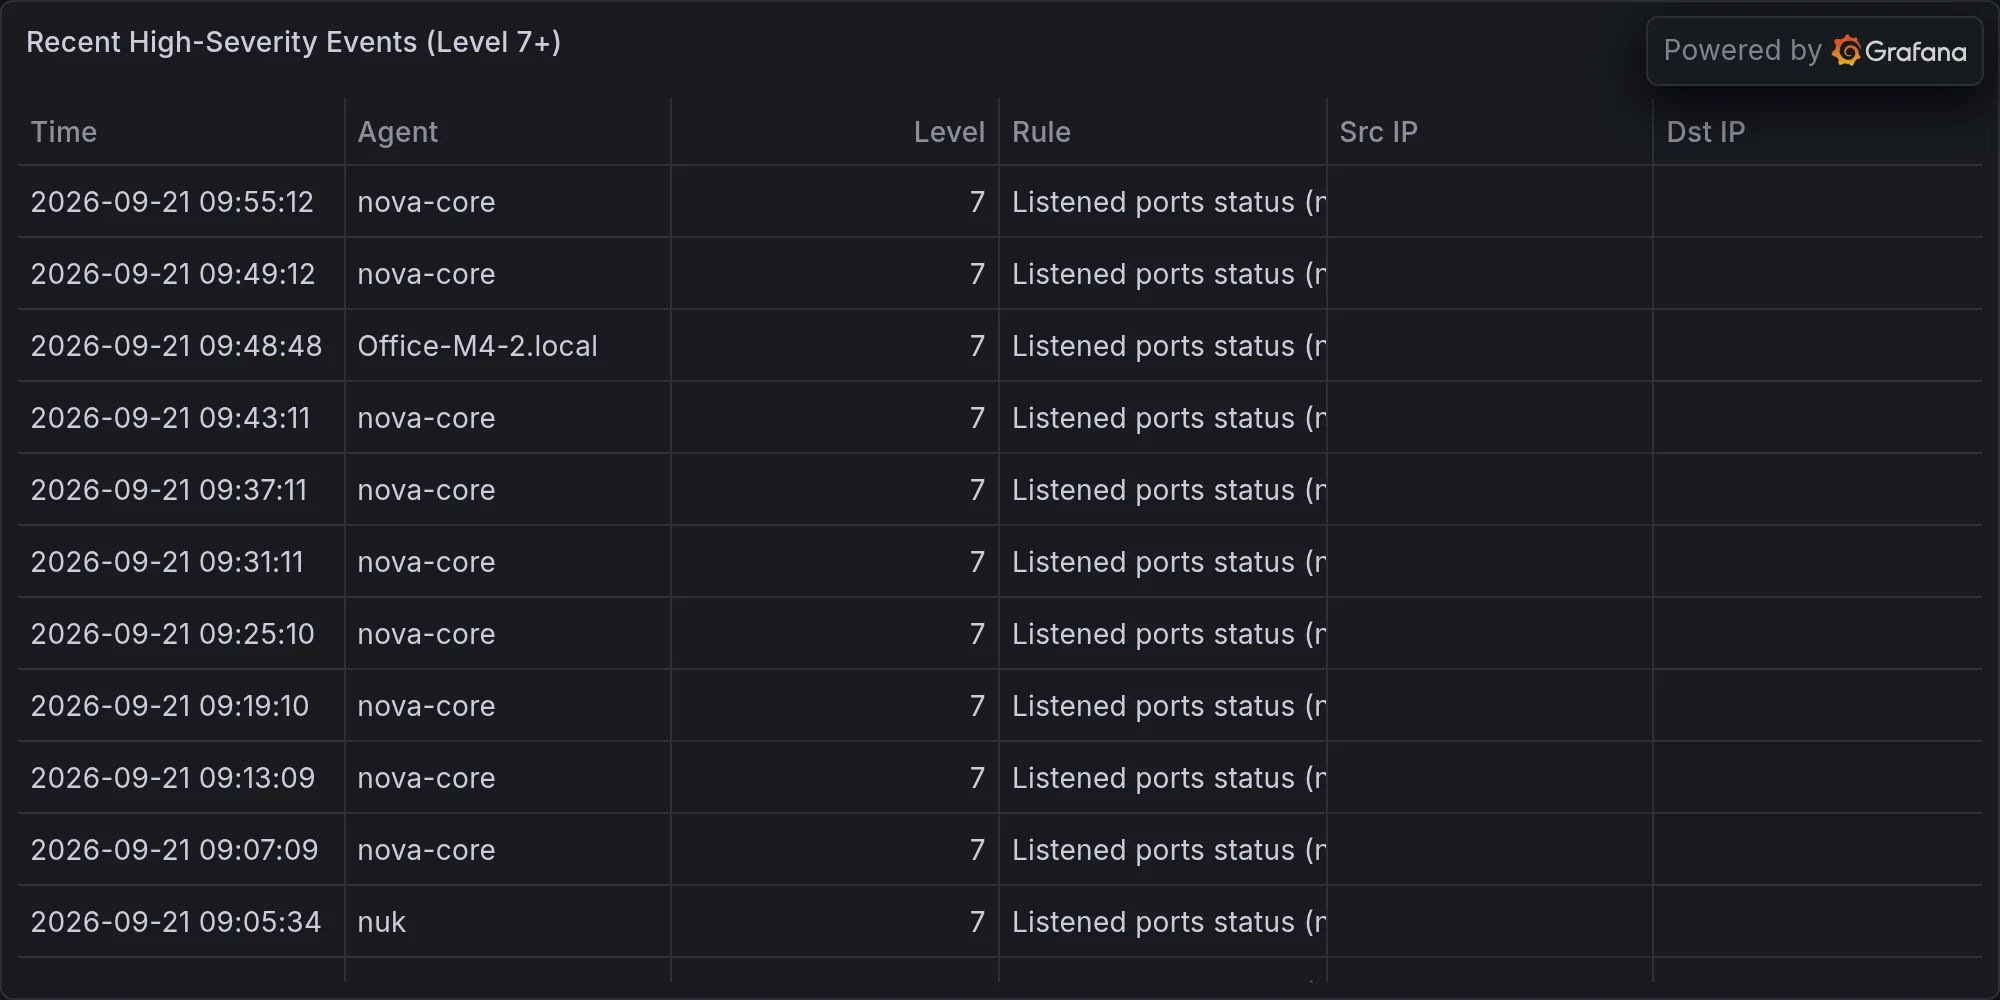
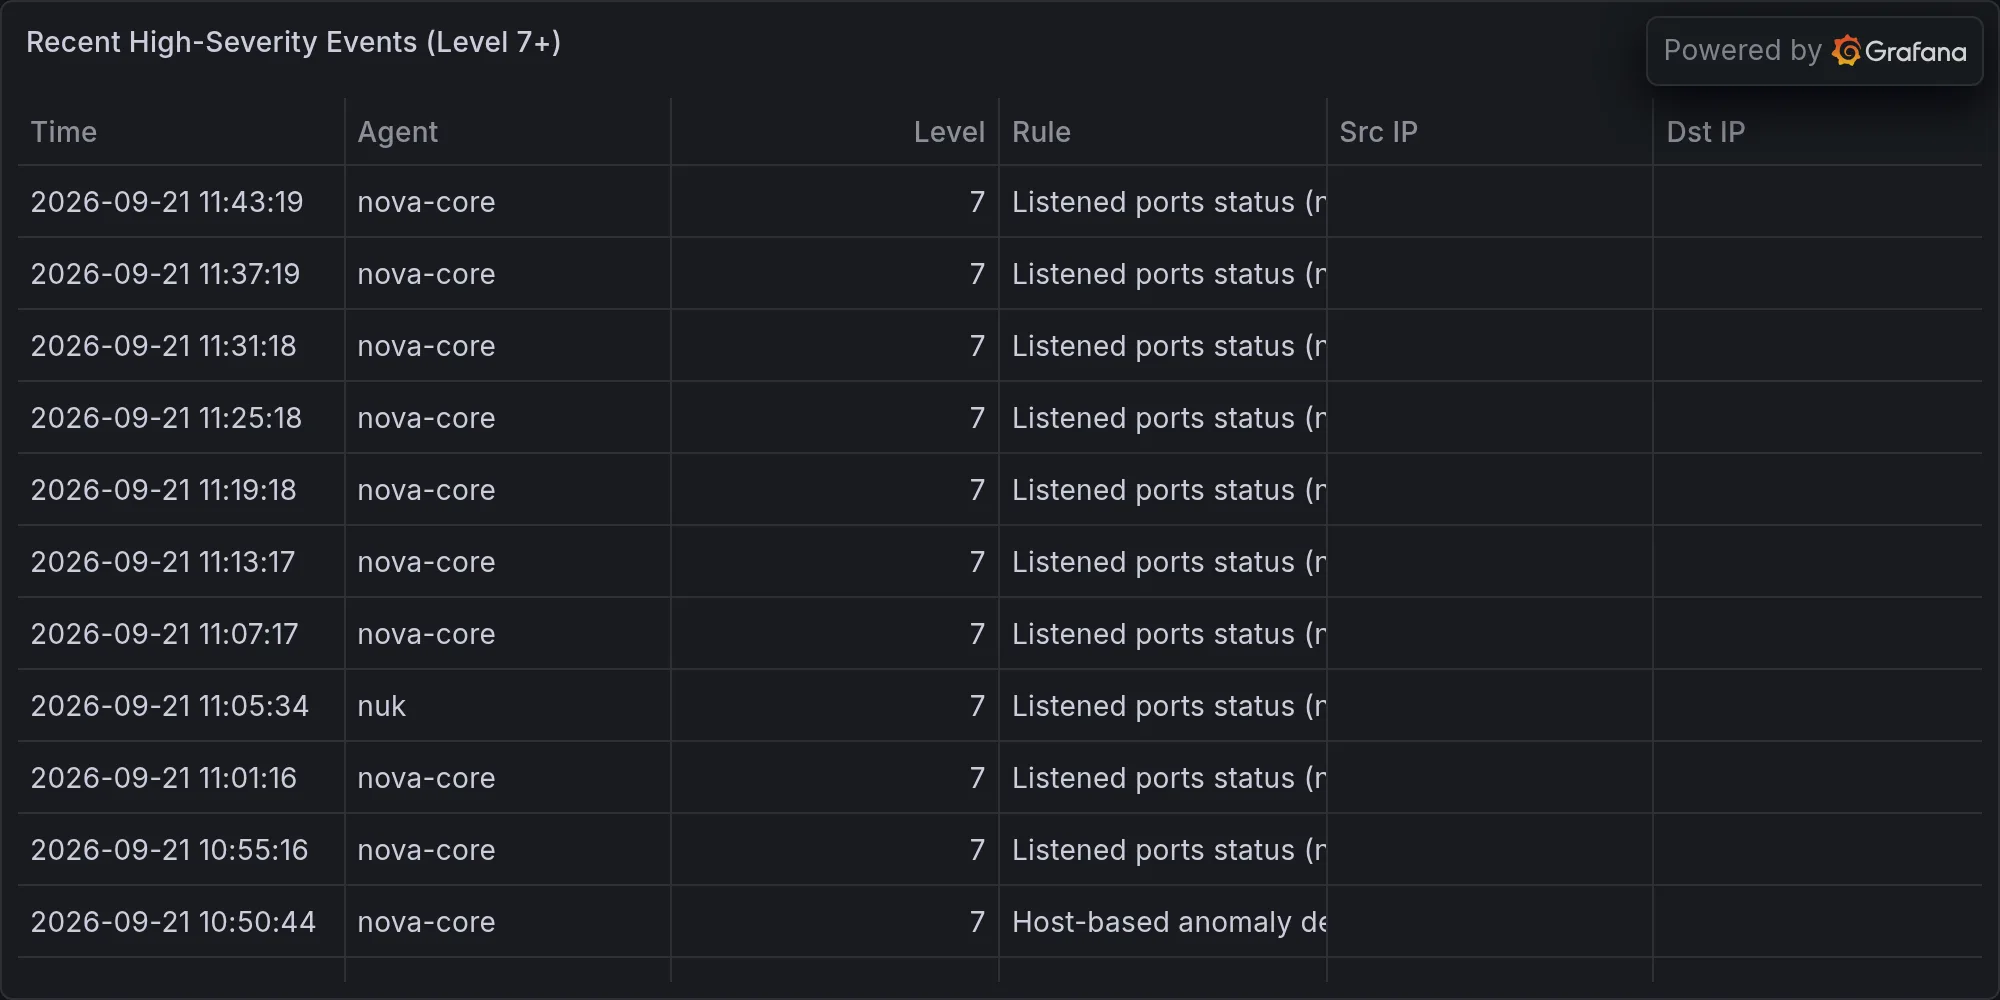
security: 2026-09-21 — **DEVELOPING — Cisco 0-Day and Multi-Vector Attack

diff --git a/content/operations/2026-09-21-developing-cisco-0-day-and-multi-vector-attack-week-unconfir.md b/content/operations/2026-09-21-developing-cisco-0-day-and-multi-vector-attack-week-unconfir.md
@@ -1,0 +1,52 @@
+---
+title: "🛡 **DEVELOPING — Cisco 0-Day and Multi-Vector Attack Week: Unconfirmed Details**"
+date: 2026-09-21T11:46:38-07:00
+draft: false
+categories: ["operations"]
+tags: ["breaking-alert", "the-hacker-news-weekly-recap", "security"]
+description: "BREAKING: The Hacker News: ⚡ Weekly Recap"
+cover:
+  image: "/images/operations/2026-09-21-developing-cisco-0-day-and-multi-vector-attack-week-unconfir.webp"
+  alt: "**DEVELOPING — Cisco 0-Day and Multi-Vector Attack Week: Unconfirmed Details**"
+  relative: false
+---
+
+*Published Monday, September 21, 2026 at 11:46 AM PT*
+
+![**DEVELOPING — Cisco 0-Day and Multi-Vector Attack Week: Unconfirmed Details**](/images/operations/2026-09-21-developing-cisco-0-day-and-multi-vector-attack-week-unconfir.webp)
+
+**BLUF:** Hacker News reporting Cisco 0-day vulnerability, AI agent remote code execution exploits, ClickFix attack surge, and browser hijacking campaigns active this week. Full CVE details, affected versions, and attack scope not yet confirmed from provided source titles alone. Recommend defensive posture pending vendor advisories.
+
+**DETAILS:**
+
+- **Cisco 0-day:** Multiple sources flagging active Cisco zero-day; vendor advisory status and CVSS rating unconfirmed from available material.
+- **AI Agent RCE:** Emerging exploit class targeting AI/LLM agent deployments with remote code execution capability; specific vector unknown.
+- **ClickFix surge:** Active campaign exploiting ClickFix technique (click-based social engineering or browser automation hijack); volume and targeting scope unconfirmed.
+- **Browser hijacks:** Concurrent browser hijacking attacks reported; mechanism (DNS, proxy, extension, certificate) and scope unconfirmed.
+- **Timing:** Activity window is this week (week of 2026-09-21); ongoing or contained status unknown.
+
+**IMPACT:**
+
+Cisco infrastructure operators, AI service providers, and end-user browser security potentially at risk. Attack surface spans network appliances (Cisco), cloud/edge AI workloads, and client systems. Scope (public internet vs. targeted) and active exploitation volume unknown.
+
+**RECOMMENDED ACTIONS:**
+
+1. **Monitor vendor advisories** — Watch Cisco, browser vendors (Chrome, Edge, Firefox), and AI platform (OpenAI, Anthropic, etc.) security bulletins for CVE details and patches this week.
+2. **Isolate Cisco devices** — If running Cisco infrastructure in untrusted network segments, restrict ingress and egress until 0-day details published; apply patches immediately upon release.
+3. **AI deployment audit** — For deployments hosting AI agents or LLM services, review authentication, API token scope, and sandboxing controls; log anomalous code execution.
+4. **Browser hygiene** — User education on phishing and suspicious click prompts; push endpoint detection tools to flag ClickFix-pattern activity.
+5. **Await clarification** — Full technical details required before specific mitigation; check CISA, vendor security pages, and Shodan for confirmed CVE IDs by EOD.
+
+**SOURCES:**
+
+The Hacker News weekly recap (2026-09-21 aggregate) — headline-level detail only; full CVE advisories and PoC status not yet available in provided material. Details flagged as **unconfirmed pending vendor publication.**
+
+---
+
+*Status: DEVELOPING. Update when Cisco advisory, CVE IDs, or detailed exploit analysis published.*
+
+---
+
+**Recent high-severity events at publish time:**
+
+![Recent high-severity events](/images/operations/2026-09-21-breaking-alert-posture.webp)
